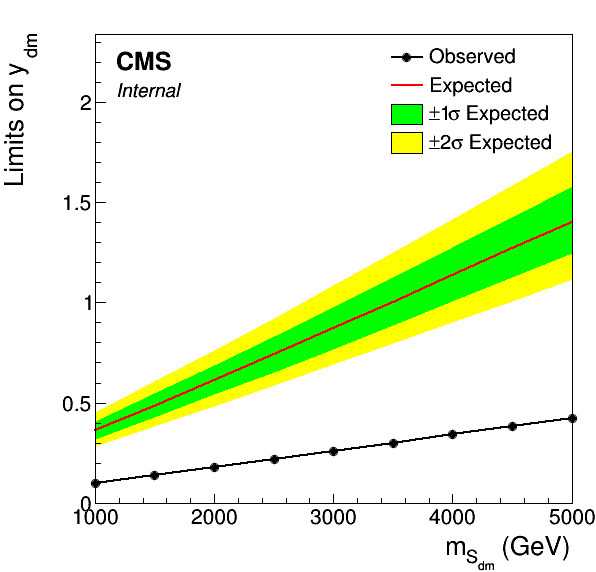
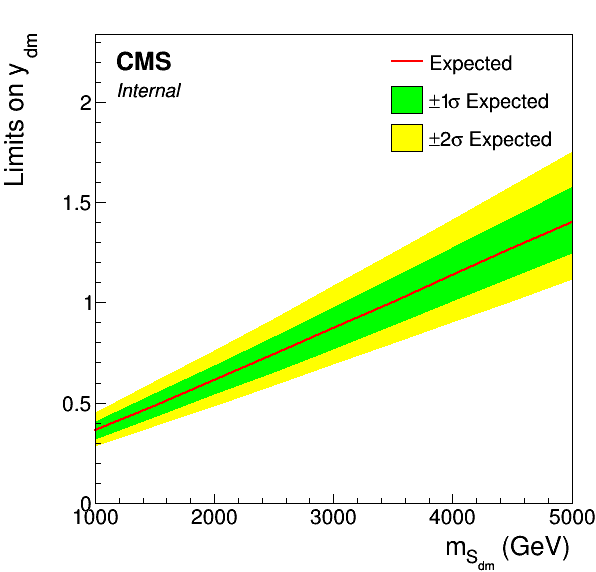
new lims without obs

Changed region(s): [[0.6342, 0.0594, 0.9362, 0.2675], [0.151, 0.7727, 0.6644, 0.8619], [0.6644, 0.7133, 0.9664, 0.7727]]

diff --git a/analyze/combine/AFB_fits/scripts/LQ_get_limits.py b/analyze/combine/AFB_fits/scripts/LQ_get_limits.py
@@ -68,7 +68,7 @@ year = -1
 print("nosys =%s"%(no_sys))
 #make directory structure: LQ_cards/channel(eu,ed,mu,md)/masses 1000-3500
     
-for channel in ['de']:
+for channel in ['ue','de','um','dm']:
 
     if channel=='ue':
         if(no_sys): template_card = "card_templates/LQ_combined_fit_template_nosys_fake_ue.txt"
